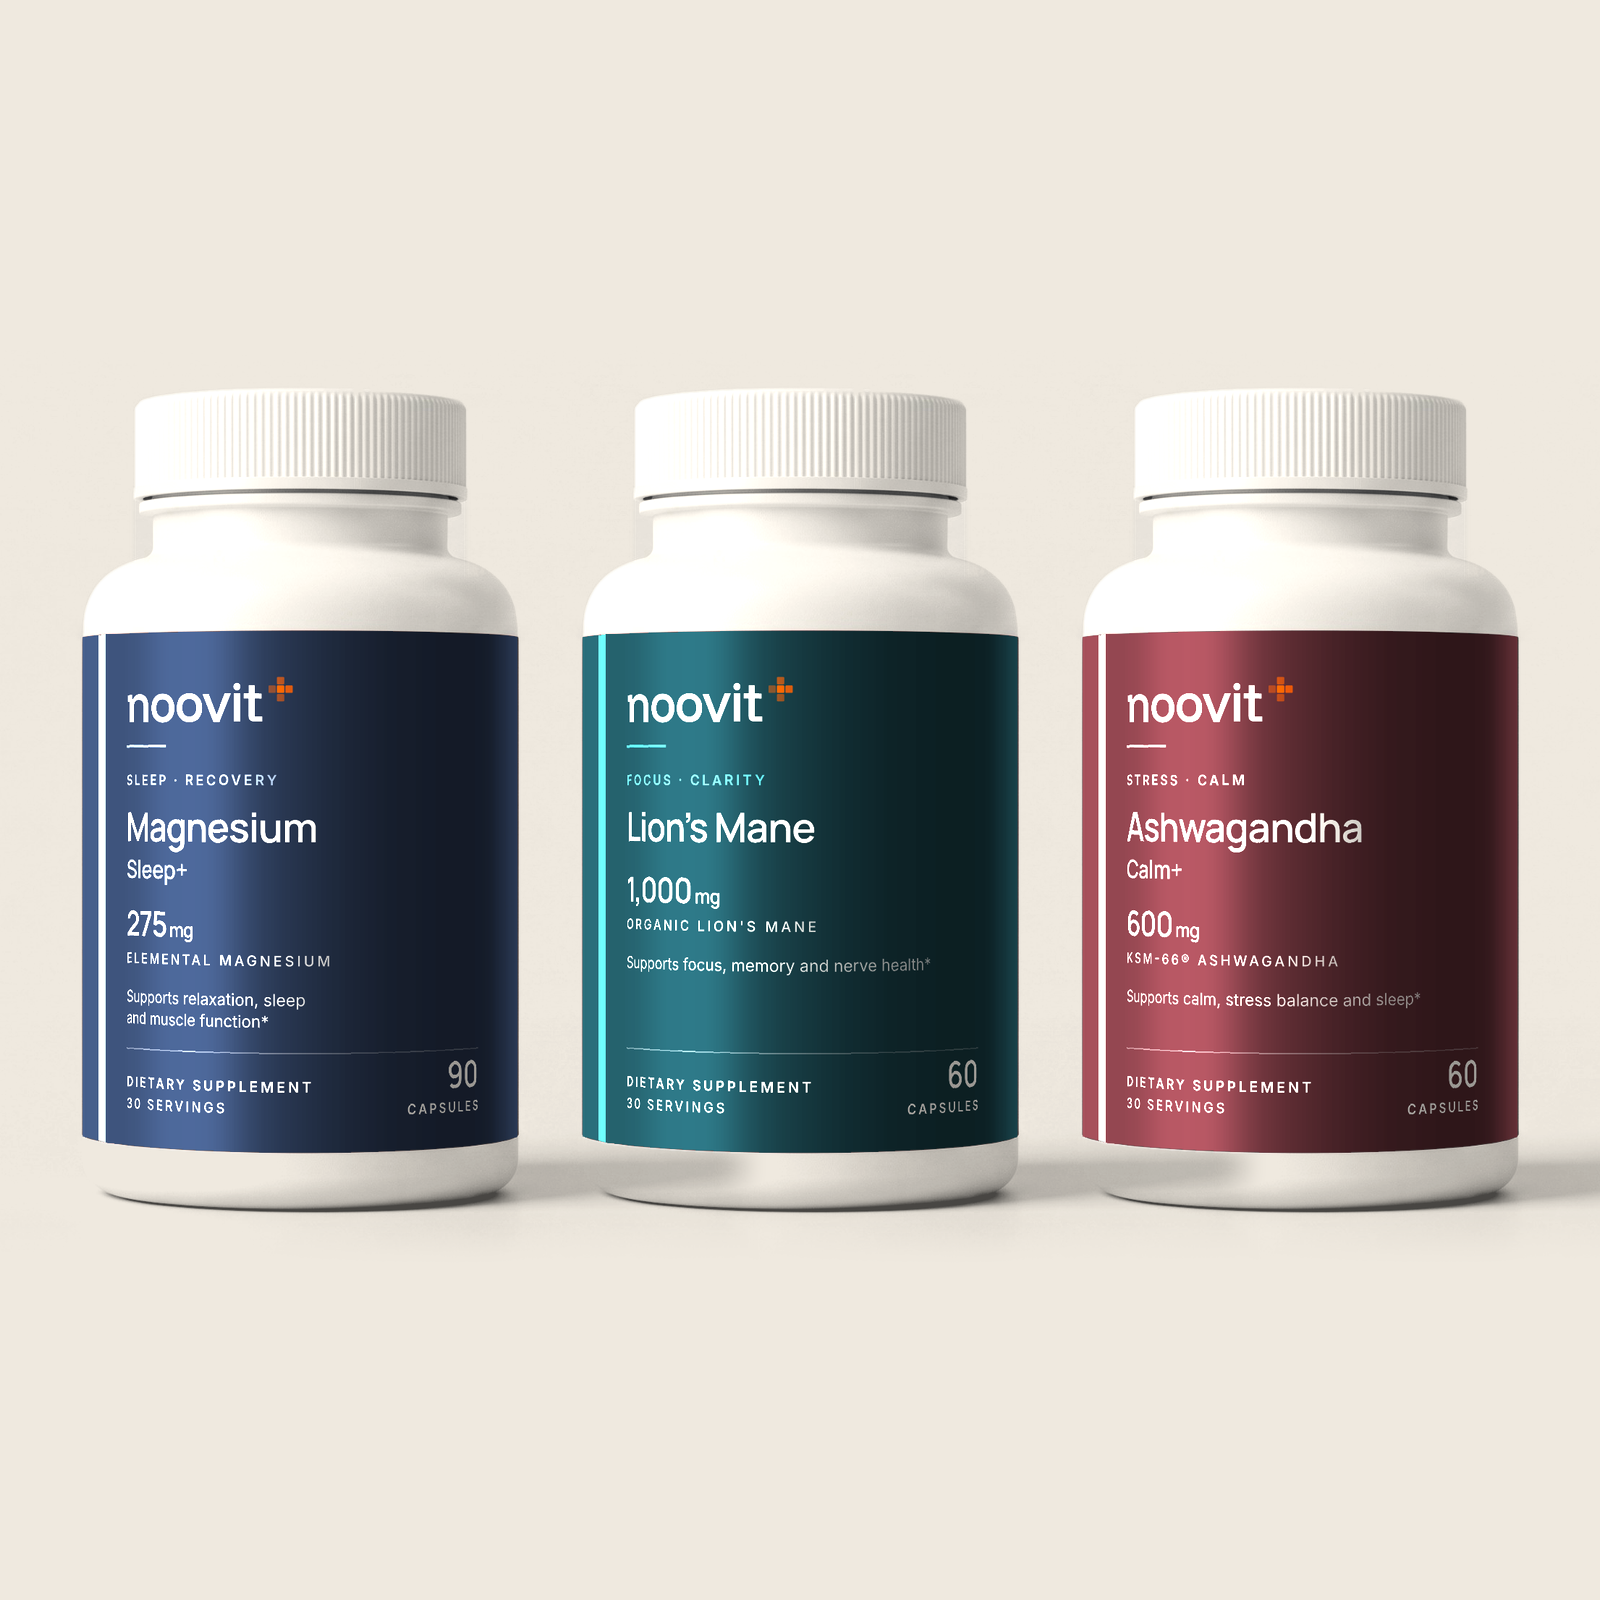
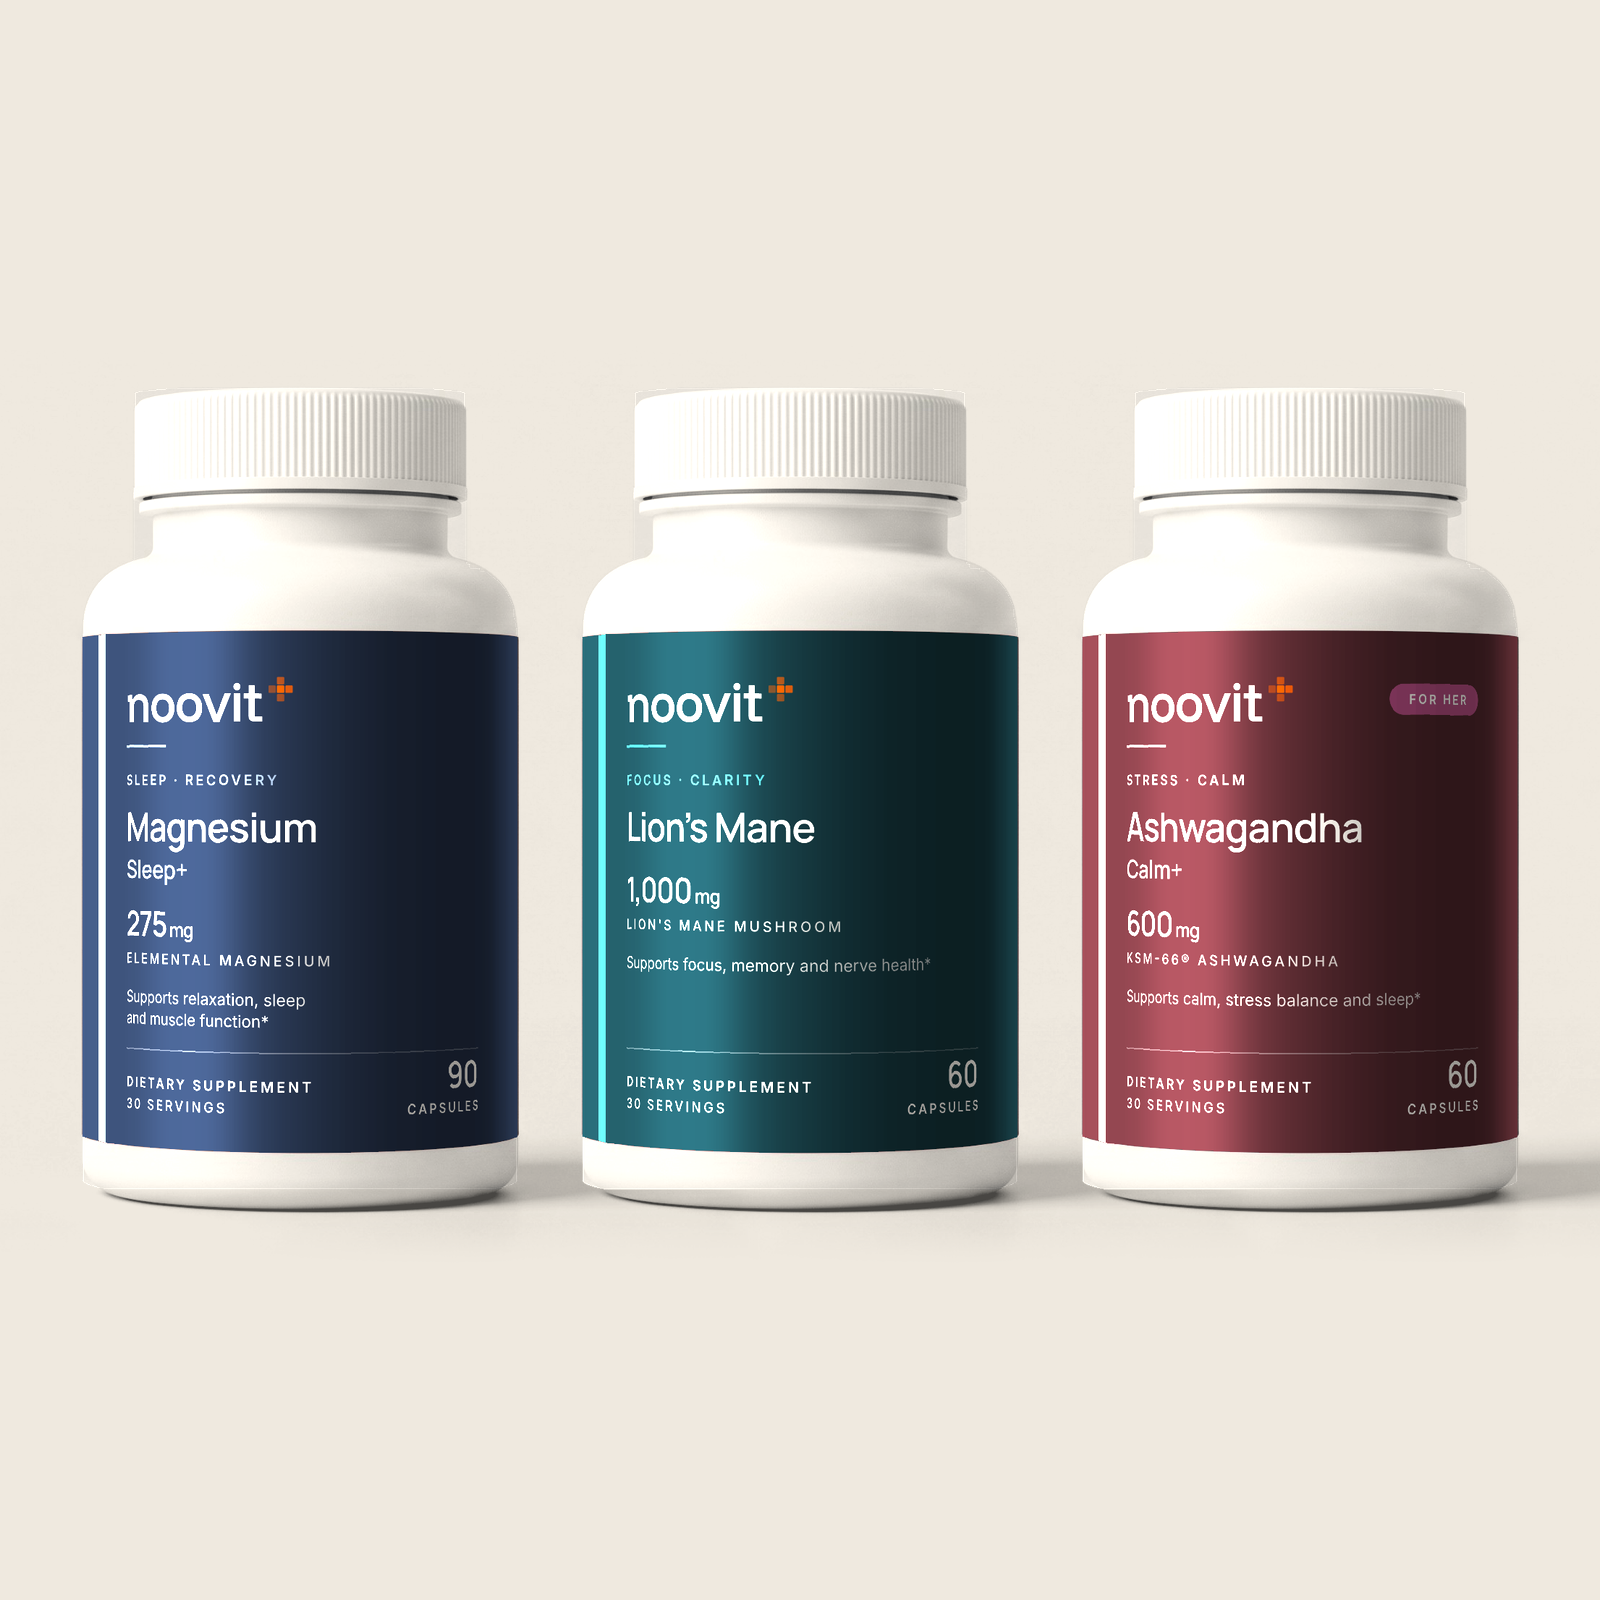
Fix bottle bottoms in site line-ups: group shots use the full bottle mask (white base + cap rim)
The template mask stops at the label edge, so on the sage/cream backdrops the white base blended into the background.
fullBottleMask() is now shared by studioCutout (scene shots) and studioGroupPng (line-ups). Regenerated line-ups also
pick up current labels (no 'organic' on Lion's Mane). Cache versions bumped.

Claude-Session: https://claude.ai/code/session_01AgHwmMXyw3TzvCrzNnVa8R

diff --git a/lib/labels/studio.ts b/lib/labels/studio.ts
@@ -273,13 +273,14 @@ export async function studioGroupPng(products: Product[], width: number, height:
       .toBuffer({ resolveWithObject: true });
     return { data, ch: info.channels };
   };
+  const full = fullBottleMask(t); // includes the white base and cap rim
   for (const [i, p] of products.entries()) {
     const r = await studioPhotoRaw(p);
     const left = Math.round((r.box.x0 + r.box.x1) / 2 - side / 2);
     const rgba = Buffer.alloc(t.W * t.H * 4);
     for (let m = 0; m < t.W * t.H; m++) {
       rgba[m * 4] = r.data[m * 3]; rgba[m * 4 + 1] = r.data[m * 3 + 1]; rgba[m * 4 + 2] = r.data[m * 3 + 2];
-      rgba[m * 4 + 3] = Math.round(t.mask[m] * 255);
+      rgba[m * 4 + 3] = Math.round(full.fill[m] * 255);
     }
     const [px, sh] = await Promise.all([resize(rgba, 4, left), resize(shadeFull, 1, left)]);
     const ox = Math.round(x0 + i * opts.step), oy = Math.round(opts.y);
@@ -304,9 +305,12 @@ export async function studioGroupPng(products: Product[], width: number, height:
 
 // The labelled bottle cut out of the studio photo (RGBA, alpha = bottle mask), cropped to the bottle, for scene shots
 // composited onto other backgrounds (scripts/scene-shots.ts). Neutral whites are warmed towards `tint`.
-export async function studioCutout(p: Product, tint: [number, number, number] = BACKDROP) {
-  const t = await (cached ??= analyse());
-  const r = await studioPhotoRaw(p);
+// The whole bottle as a mask: the template mask stops at the label's bottom edge and misses the cap's top rim, so the
+// white base and rim are recovered here. Shared by the cut-out (scene shots) and the group shots (site line-ups), so
+// bottle bottoms never melt into the backdrop. Computed once.
+let fullMaskCache: { fill: Float32Array; minX: number; maxX: number; minY: number; maxY: number } | undefined;
+function fullBottleMask(t: Awaited<ReturnType<typeof analyse>>) {
+  if (fullMaskCache) return fullMaskCache;
   let minX = t.W, maxX = 0, minY = t.H, maxY = 0;
   for (let m = 0; m < t.W * t.H; m++) if (t.mask[m] > 0.02) { const x = m % t.W, y = (m / t.W) | 0; if (x < minX) minX = x; if (x > maxX) maxX = x; if (y < minY) minY = y; if (y > maxY) maxY = y; }
   // The mask stops at the label's bottom edge; the white base below it is found here: pixels clearly brighter than
@@ -360,7 +364,6 @@ export async function studioCutout(p: Product, tint: [number, number, number] = 
     base.set(y, [t.x0 + inset, t.x1 - inset]);
   }
   maxY = baseEnd;
-  const w = maxX - minX + 1, h = maxY - minY + 1;
   // The bottle is convex in every row: fill each row between its outermost solid pixels, so small mask gaps (the
   // ribbed cap's highlights) don't show the new background through.
   const fill = new Float32Array(t.W * t.H);
@@ -371,6 +374,15 @@ export async function studioCutout(p: Product, tint: [number, number, number] = 
     if (b) { l = l < 0 ? b[0] : Math.min(l, b[0]); r = Math.max(r, b[1]); }
     for (let x = minX; x <= maxX; x++) { const m = y * t.W + x; fill[m] = l >= 0 && x >= l && x <= r ? 1 : t.mask[m]; }
   }
+  fullMaskCache = { fill, minX, maxX, minY, maxY };
+  return fullMaskCache;
+}
+
+export async function studioCutout(p: Product, tint: [number, number, number] = BACKDROP) {
+  const t = await (cached ??= analyse());
+  const r = await studioPhotoRaw(p);
+  const { fill, minX, maxX, minY, maxY } = fullBottleMask(t);
+  const w = maxX - minX + 1, h = maxY - minY + 1;
   const out = Buffer.alloc(w * h * 4);
   for (let y = 0; y < h; y++) for (let x = 0; x < w; x++) {
     const m = (y + minY) * t.W + x + minX, k = m * 3, o = (y * w + x) * 4;

diff --git a/components/faq/FaqBrowser.tsx b/components/faq/FaqBrowser.tsx
@@ -58,7 +58,7 @@ export function FaqBrowser({ products }: { products: Product[] }) {
               <h2 className="text-3xl text-white md:text-4xl">Small daily habits, big long-term results.</h2>
               <Link href="/shop" className="btn mt-6 bg-white text-[var(--color-navy)]">Shop Now</Link>
             </div>
-            <img src="/images/lineup-5.png?v=3" alt="" className="h-full w-full bg-[var(--studio)] object-cover" />
+            <img src="/images/lineup-5.png?v=4" alt="" className="h-full w-full bg-[var(--studio)] object-cover" />
           </div>
         </div>
       </section>

diff --git a/app/(store)/about/page.tsx b/app/(store)/about/page.tsx
@@ -51,7 +51,7 @@ export default async function AboutPage() {
               <p>The result is a focused range of supplements with clear labels, honest claims and a 90-day guarantee behind them.</p>
             </div>
           </div>
-          <img src="/images/lineup-5.png?v=3" alt="The Noovit core range" className="aspect-[4/3] w-full rounded-3xl bg-[var(--studio)] object-cover" />
+          <img src="/images/lineup-5.png?v=4" alt="The Noovit core range" className="aspect-[4/3] w-full rounded-3xl bg-[var(--studio)] object-cover" />
         </div>
       </section>
 

diff --git a/app/(store)/page.tsx b/app/(store)/page.tsx
@@ -74,7 +74,7 @@ export default async function HomePage() {
             </ul>
           </div>
           <Link href="/shop" aria-label="Shop the range" className="block">
-            <img src="/images/lineup-hero.png?v=4" alt="Noovit Magnesium Sleep+, Lion's Mane and Ashwagandha Calm+ bottles" className="w-full" fetchPriority="high" />
+            <img src="/images/lineup-hero.png?v=5" alt="Noovit Magnesium Sleep+, Lion's Mane and Ashwagandha Calm+ bottles" className="w-full" fetchPriority="high" />
           </Link>
         </div>
       </section>
